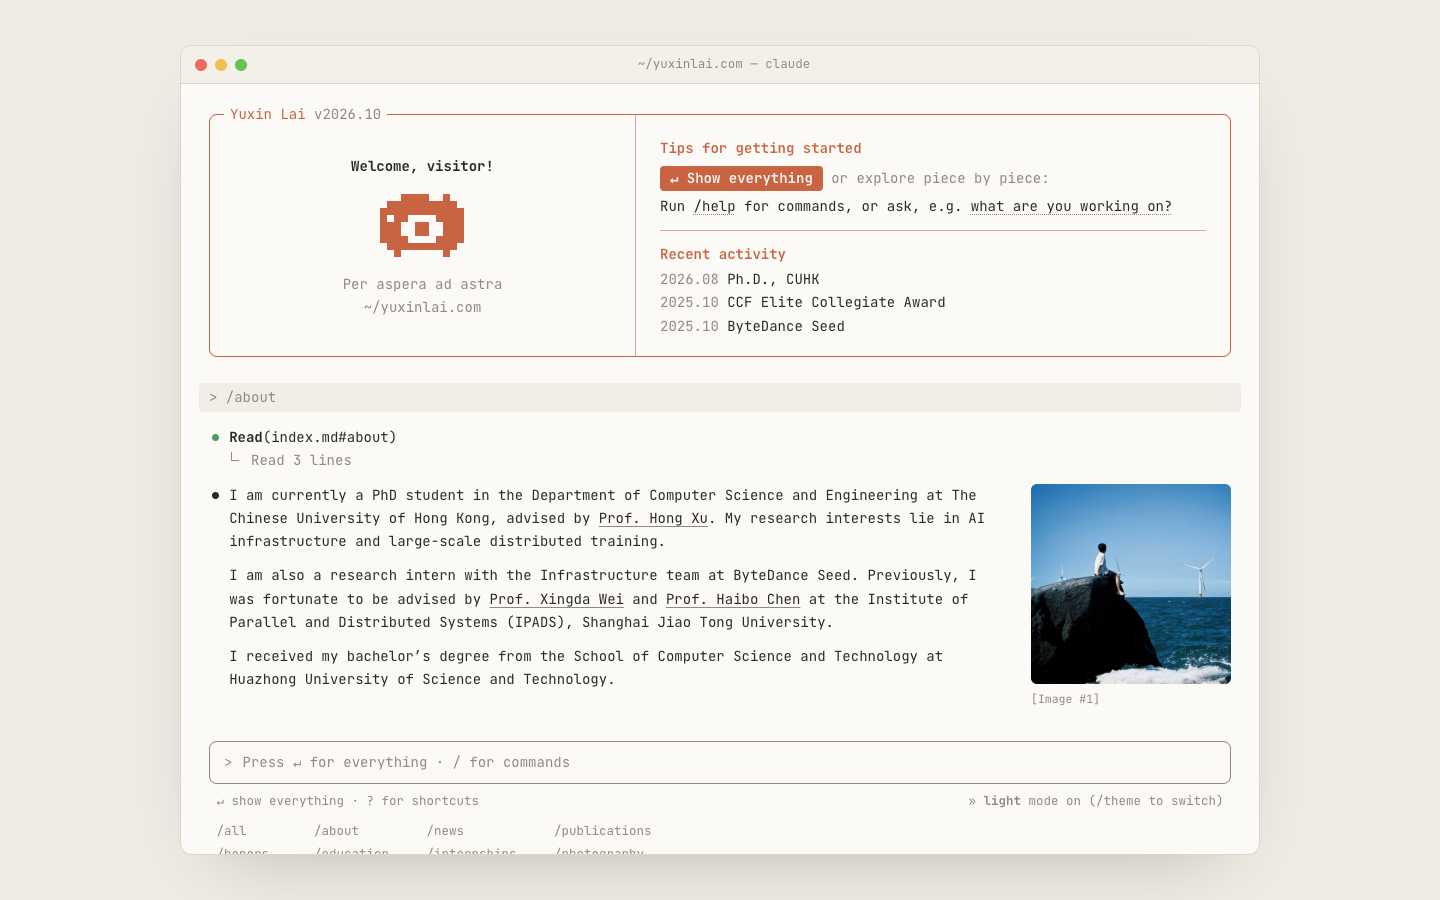
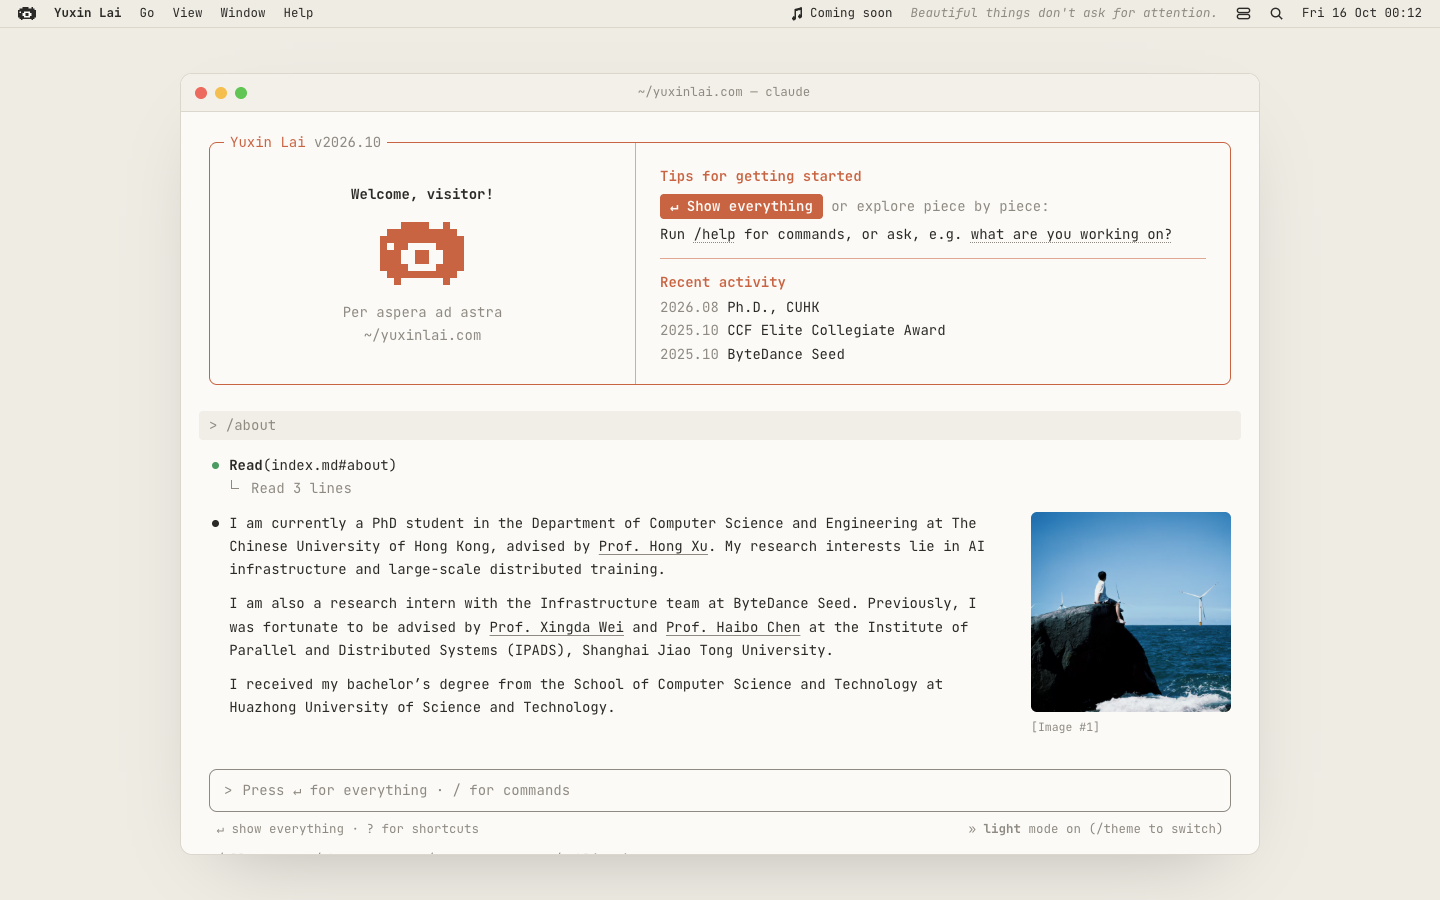
Add a macOS-style menu bar: menus, control center, search, clock, status and a music placeholder

diff --git a/_layouts/default.html b/_layouts/default.html
@@ -16,8 +16,24 @@
 </head>
 <body>
 {% assign host = site.url | remove: 'https://' | remove: 'http://' %}{% assign sections = content | split: '<h2' %}{% assign recent = page.milestones.size | minus: 3 | at_least: 0 %}{% assign gallery = page.gallery.title | slugify %}{% capture mascot %}<svg class="mascot" width="84" height="63" viewBox="0 0 12 9" shape-rendering="crispEdges" aria-hidden="true"><path d="M3 0h4v1H3zM9 0h1v1H9zM1 1h10v1H1zM0 2h12v5H0zM1 7h10v1H1zM2 8h1v1H2zM9 8h1v1H9z"/><path class="hole" d="M1 3h1v1H1zM4 3h4v1H4zM3 4h6v2H3zM4 6h4v1H4z"/><rect class="iris" x="5" y="4" width="2" height="2"/></svg>{% endcapture %}
+<nav class="mb">
+  <div class="m"><button class="logo" aria-label="Site menu">{{ mascot }}</button><div class="dd"><button data-act="about">About This Site</button><button data-run="/all">Show Everything<span>↵</span></button><hr><button data-act="min">Sleep</button><button data-act="restart">Restart</button><button data-act="close">Shut Down</button></div></div>
+  <b class="app">{{ page.title }}</b>
+  <div class="m am"><button>Go</button><div class="dd" id="go"></div></div>
+  <div class="m am"><button>View</button><div class="dd"><button data-act="theme">Dark Mode<span>/theme</span></button><button data-act="full">Full Screen</button><button data-act="keys">Shortcuts<span>?</span></button></div></div>
+  <div class="m am"><button>Window</button><div class="dd"><button data-act="min">Minimize</button><button data-act="full">Zoom</button><hr><button data-act="close">Close Window</button></div></div>
+  <div class="m am"><button>Help</button><div class="dd"><button data-run="/help">Commands<span>/help</span></button><button data-run="/contact">Contact<span>/contact</span></button></div></div>
+  <i class="sp"></i>
+  <div class="m"><button class="np"><svg viewBox="0 0 16 16"><path d="M6 3.2 14 1v10a2.2 2.2 0 1 1-1.6-2.1V4.1L7.6 5.4v7.8A2.2 2.2 0 1 1 6 11.1z"/></svg><span>Coming soon</span></button><div class="dd panel music"><div class="cover">{{ mascot }}</div><p><b>Coming Soon</b><br><span>A playlist is on its way</span></p><div class="ctl"><svg viewBox="0 0 16 16"><path d="M3 3h2v10H3zM14 3v10L6 8z"/></svg><svg viewBox="0 0 16 16"><path d="M4 2v12l10-6z"/></svg><svg viewBox="0 0 16 16"><path d="M11 3h2v10h-2zM2 3v10l8-5z"/></svg></div></div></div>
+  <span class="quote">{{ page.status }}</span>
+  <div class="m"><button aria-label="Control Center"><svg class="ln" viewBox="0 0 16 16"><rect x="1.5" y="2.5" width="13" height="4.5" rx="2.25"/><rect x="1.5" y="9" width="13" height="4.5" rx="2.25"/></svg></button><div class="dd panel cc"><button data-act="theme">Dark Mode</button><button data-act="full">Full Screen</button><button data-act="keys">Shortcuts</button></div></div>
+  <button data-act="spot" aria-label="Search" title="Search (⌘K)"><svg class="ln" viewBox="0 0 16 16"><circle cx="7" cy="7" r="4.5"/><path d="m10.5 10.5 3.5 3.5"/></svg></button>
+  <div class="m"><button id="clock"></button><div class="dd panel nc"><p class="tz"><span id="city"></span><b id="big"></b><span id="date"></span><span id="yours"></span></p><div id="news"></div></div></div>
+</nav>
+<dialog id="spot"><form><input placeholder="Search commands and content" aria-label="Search" autocomplete="off"><div class="hits"></div></form></dialog>
+<dialog id="about"><form method="dialog">{{ mascot }}<b>{{ page.title }}</b><p class="dim">Version {{ site.time | date: '%Y.%-m' }}</p><p>Built with Jekyll, hosted on GitHub Pages.<br>Updated {{ site.time | date: '%-d %b %Y' }}.</p><button>OK</button></form></dialog>
 <div class="win">
-  <div class="bar"><button id="close" aria-label="Close">×</button><button id="min" aria-label="Minimize">−</button><button id="max" aria-label="Full screen">+</button><span>~/{{ host }} — claude</span></div>
+  <div class="bar"><button data-act="close" aria-label="Close">×</button><button data-act="min" aria-label="Minimize">−</button><button data-act="full" aria-label="Full screen">+</button><span>~/{{ host }} — claude</span></div>
   <div class="term">
     <div class="welcome">
       <p class="ttl">{{ page.title }} <span>v{{ site.time | date: '%Y.%-m' }}</span></p>
@@ -49,14 +65,14 @@
     </div>
     <form class="input" id="prompt"><span class="dim">&gt;</span><input id="q" autocomplete="off" autocapitalize="off" spellcheck="false" enterkeyhint="send" placeholder="Press ↵ for everything · / for commands" aria-label="Type a command or a question"></form>
     <div class="menu" id="menu" hidden></div>
-    <div class="status"><p><button data-run="/all">↵ show everything</button><button id="toggle">&nbsp;· ? for shortcuts</button></p><button id="mode" data-run="/theme">» <b>light</b> mode on <span>(/theme to switch)</span></button></div>
+    <div class="status"><p><button data-run="/all">↵ show everything</button><button id="toggle" data-act="keys">&nbsp;· ? for shortcuts</button></p><button id="mode" data-run="/theme">» <b>light</b> mode on <span>(/theme to switch)</span></button></div>
     <div class="keys" id="keys"></div>
   </div>
 </div>
 <div class="desk">{% for p in page.gallery.photos %}{% include photo.html p=p %}{% endfor %}{{ page.gallery.note | markdownify }}</div>
-<button class="dock" title="{{ page.title }}">{{ mascot }}</button>
+<button class="dock" data-act="open" title="{{ page.title }}">{{ mascot }}</button>
 <script>
-const $ = s => document.querySelector(s), root = document.documentElement, win = $('.win'), term = $('.term'), log = $('#log'), q = $('#q'), menu = $('#menu'), keys = $('#keys');
+const $ = s => document.querySelector(s), $$ = s => document.querySelectorAll(s), root = document.documentElement, win = $('.win'), term = $('.term'), log = $('#log'), q = $('#q'), menu = $('#menu'), keys = $('#keys');
 const lib = [...document.querySelectorAll('#lib section')];
 const cmds = [['all', 'Show everything at once'], ...lib.map(s => [s.dataset.cmd, s.dataset.desc]), ['help', 'List everything I can show you'], ['theme', 'Switch between light and dark'], ['clear', 'Clear the conversation']];
 const hints = [['publications', /paper|publication|kunserve|eurosys/], ['{{ gallery }}', /photo|camera|gallery|picture/], ['honors', /award|honou?r|prize|scholarship/], ['education', /school|stud|degree|universit|educat|phd|bachelor/], ['internships', /intern|job|seed|ipads|industry/], ['news', /news|recent|latest|update/], ['contact', /contact|e-?mail|reach|github|scholar|\bcv\b|resume/], ['all', /everything|\ball\b|full|whole/], ['help', /help|what can/], ['about', /who|yourself|research|interest|working on|about/]];
@@ -77,7 +93,7 @@ const reply = (name, t) => {
   const help = `<button data-run="/help">/help</button>`;
   if (!name) return [el('say', t.startsWith('/') ? `<p>Unknown command: ${esc(t)}. Try ${help}.</p>` : `<p>I’m a static homepage, so that one is beyond me. Try ${help} to see what I can show you.</p>`)];
   if (name === 'help') return [el('say', `<p>Here’s what I can show you:</p><div class="cmds">${cmds.map(([c, d]) => `<button data-run="/${c}"><b>/${c}</b><span>${d}</span></button>`).join('')}</div><p class="dim">You can also ask in plain words, like “what are you working on?”</p>`)];
-  if (name === 'theme') return setTheme(root.dataset.theme === 'dark' ? 'light' : 'dark'), [el('res', `Theme set to ${root.dataset.theme}`)];
+  if (name === 'theme') return acts.theme(), [el('res', `Theme set to ${root.dataset.theme}`)];
   if (name === 'all') {
     const all = el('say');
     lib.forEach(s => { const b = s.cloneNode(true); b.classList.remove('say'); all.append(el('sec', s.dataset.title), b); });
@@ -90,7 +106,8 @@ const reply = (name, t) => {
 };
 const run = async (raw, quiet) => {
   const t = raw.trim();
-  q.value = ''; suggest();
+  if (win.classList.contains('closed')) log.replaceChildren();
+  show(); q.value = ''; suggest();
   if (!t || busy) return;
   hist.push(t); hi = hist.length; busy = true;
   const name = resolve(t);
@@ -115,7 +132,6 @@ function suggest() {
 }
 keys.innerHTML = cmds.map(([c]) => `<button data-run="/${c}">/${c}</button>`).join('') + '<p>↑↓ history · tab to complete · ? to toggle this list</p>';
 paint();
-$('#toggle').onclick = () => keys.hidden = !keys.hidden;
 $('#prompt').onsubmit = e => { e.preventDefault(); run(menu.hidden ? q.value.trim() || '/all' : menu.querySelector('.on').dataset.run); };
 q.oninput = () => { sel = 0; suggest(); };
 q.onkeydown = e => {
@@ -128,16 +144,42 @@ q.onkeydown = e => {
   else return;
   e.preventDefault();
 };
+const spot = $('#spot'), sq = $('#spot input'), hits = $('#spot .hits'), show = () => win.classList.remove('closed', 'min');
+const acts = {
+  close: () => win.classList.add('closed'), min: () => win.classList.add('min'), full: () => win.classList.toggle('full'),
+  open: () => win.classList.contains('closed') ? acts.restart() : show(),
+  restart: () => { show(); log.replaceChildren(); q.value = ''; intro(); },
+  theme: () => setTheme(root.dataset.theme === 'dark' ? 'light' : 'dark'),
+  keys: () => keys.hidden = !keys.hidden,
+  about: () => $('#about').showModal(),
+  spot: () => { sq.value = ''; sq.oninput(); spot.showModal(); },
+};
+const openMenu = m => $$('.m').forEach(x => x.classList.toggle('open', x === m));
 document.addEventListener('click', e => {
-  const b = e.target.closest('[data-run]');
+  const t = e.target, top = t.closest('.m > button'), m = t.closest('.m'), a = t.closest('[data-act]'), b = t.closest('[data-run]');
+  openMenu(t.closest('.panel') || top && !m.classList.contains('open') ? m : null);
+  if (top) return;
+  if (a) return acts[a.dataset.act]();
   if (b) return e.preventDefault(), run(b.dataset.run);
-  if (fine && e.target.closest('.term') && !e.target.closest('a,button,input') && !getSelection().toString()) q.focus({preventScroll: true});
+  if (fine && t.closest('.term') && !t.closest('a,button,input') && !getSelection().toString()) q.focus({preventScroll: true});
 });
-addEventListener('wheel', e => e.target.closest('.win') || term.scrollBy(e.deltaX, e.deltaY), {passive: true});
-$('#close').onclick = () => win.classList.add('closed');
-$('#min').onclick = () => win.classList.add('min');
-$('#max').onclick = () => win.classList.toggle('full');
-$('.dock').onclick = () => { if (win.classList.contains('closed')) log.replaceChildren(), q.value = '', intro(); win.classList.remove('closed', 'min'); };
+$('.mb').onmouseover = e => { const m = e.target.closest('.m'); if (m && $('.m.open')) openMenu(m); };
+addEventListener('keydown', e => (e.metaKey || e.ctrlKey) && e.key === 'k' ? (e.preventDefault(), acts.spot()) : e.key === 'Escape' && openMenu());
+addEventListener('wheel', e => e.target.closest('.win,.mb,dialog') || term.scrollBy(e.deltaX, e.deltaY), {passive: true});
+$$('dialog').forEach(d => d.addEventListener('click', e => e.target === d && d.close()));
+sq.oninput = () => { const v = sq.value.toLowerCase().trim(); hits.innerHTML = cmds.filter(([c, d]) => `${c} ${d} ${lib.find(s => s.dataset.cmd === c)?.textContent ?? ''}`.toLowerCase().includes(v)).slice(0, 8).map(([c, d]) => `<button value="/${c}">/${c}<span>${d}</span></button>`).join(''); };
+$('#spot form').onsubmit = e => { e.preventDefault(); spot.close(); run(e.submitter?.value ?? sq.value); };
+$('#go').innerHTML = '<button data-run="/all">Everything<span>↵</span></button><hr>' + lib.map(s => `<button data-run="/${s.dataset.cmd}">${s.dataset.title}</button>`).join('');
+$('#news').innerHTML = [...lib.find(s => s.dataset.cmd === 'news')?.querySelectorAll('li') ?? []].map(li => `<p><span>${li.firstChild.textContent}</span>${li.innerHTML.replace(li.firstChild.outerHTML, '')}</p>`).join('');
+const tz = '{{ page.timezone }}' || undefined, fmt = o => new Intl.DateTimeFormat('en-GB', {timeZone: tz, ...o}).format(new Date()), hm = {hour: '2-digit', minute: '2-digit'};
+const tick = () => {
+  $('#clock').textContent = fmt({weekday: 'short', day: 'numeric', month: 'short', ...hm}).replace(',', '');
+  $('#big').textContent = fmt(hm); $('#date').textContent = fmt({weekday: 'long', day: 'numeric', month: 'long'});
+  const mine = new Intl.DateTimeFormat('en-GB', hm).format(new Date());
+  $('#yours').textContent = mine === fmt(hm) ? '' : `Your time ${mine}`;
+};
+$('#city').textContent = (tz ?? 'Local time').split('/').pop().replace(/_/g, ' ');
+tick(); setInterval(tick, 5000);
 const intro = async () => {
   const first = '/' + lib[0].dataset.cmd;
   await sleep(500);

diff --git a/assets/css/main.css b/assets/css/main.css
@@ -1,6 +1,6 @@
 *,*::before,*::after{box-sizing:border-box}
 [hidden]{display:none!important}
-:root{--page:#efece4;--win:#fbfaf7;--bar:#f3f0e9;--text:#2b2a27;--dim:#8e8a81;--line:#dcd7cc;--you:#f1eee7;--accent:#c96442;--green:#4b9b62;color-scheme:light}
+:root{--mb:28px;--page:#efece4;--win:#fbfaf7;--bar:#f3f0e9;--text:#2b2a27;--dim:#8e8a81;--line:#dcd7cc;--you:#f1eee7;--accent:#c96442;--green:#4b9b62;color-scheme:light}
 [data-theme=dark]{--page:#151413;--win:#232220;--bar:#2a2926;--text:#e9e6df;--dim:#8f8b83;--line:#3b3935;--you:#2d2c29;--accent:#e08563;--green:#6dbb83;color-scheme:dark}
 body{margin:0;background:var(--page);color:var(--text);font:400 14px/1.65 "JetBrains Mono Variable",ui-monospace,Menlo,monospace;-webkit-font-smoothing:antialiased;transition:background .3s}
 a{color:inherit;text-decoration:underline 1px var(--dim);text-underline-offset:3px}
@@ -10,15 +10,15 @@ p{margin:0}
 strong{font-weight:700}
 .dim{color:var(--dim)}
 
-.win{--gap:clamp(16px,5vh,48px);position:relative;z-index:1;display:flex;flex-direction:column;width:min(1080px,100% - 2*var(--gap));height:calc(100dvh - 2*var(--gap));margin:var(--gap) auto;border:1px solid var(--line);border-radius:12px;background:var(--win);box-shadow:0 30px 80px -40px rgb(0 0 0 / .28);overflow:hidden;transform-origin:50% 100%;transition:.45s}
+.win{--gap:clamp(16px,5vh,48px);position:relative;z-index:1;display:flex;flex-direction:column;width:min(1080px,100% - 2*var(--gap));height:calc(100dvh - var(--mb) - 2*var(--gap));margin:calc(var(--mb) + var(--gap)) auto var(--gap);border:1px solid var(--line);border-radius:12px;background:var(--win);box-shadow:0 30px 80px -40px rgb(0 0 0 / .28);overflow:hidden;transform-origin:50% 100%;transition:.45s}
 .win:is(.min,.closed){opacity:0;visibility:hidden}
 .min{transform:scale(.05)}
 .closed{transform:scale(.95)}
-.full{--gap:0px;width:100%;border:0;border-radius:0}
+.full{--gap:0px;--mb:0px;z-index:3;width:100%;border:0;border-radius:0}
 .dock{position:fixed;bottom:14px;left:50%;display:grid;place-items:center;width:58px;height:58px;border:1px solid var(--line);border-radius:14px;background:var(--win);box-shadow:0 12px 30px -12px rgb(0 0 0 / .35);translate:-50% 0;transition:translate .45s,opacity .45s,visibility .45s}
 .win:not(.min,.closed)~.dock{translate:-50% 150%;opacity:0;visibility:hidden}
 .dock .mascot{width:36px;height:27px;margin:0}
-.desk{position:fixed;inset:0;display:flex;flex-wrap:wrap;align-content:center;justify-content:center;gap:28px;padding:48px 48px 110px;transition:.45s}
+.desk{position:fixed;inset:0;display:flex;flex-wrap:wrap;align-content:center;justify-content:center;gap:28px;padding:calc(var(--mb) + 48px) 48px 110px;transition:.45s}
 .win:not(.min,.closed)~.desk{opacity:0;visibility:hidden;scale:.97}
 .desk figure{width:min(250px,18vw);padding:10px 10px 12px;border-radius:6px;background:var(--win);box-shadow:0 18px 40px -20px rgb(0 0 0 / .45);rotate:-3deg;transition:.3s}
 .desk figure:nth-child(even){rotate:2.5deg;translate:0 14px}
@@ -26,9 +26,53 @@ strong{font-weight:700}
 .desk p{flex-basis:100%;color:var(--dim);text-align:center}
 .bar{display:flex;align-items:center;gap:8px;height:38px;padding:0 14px;border-bottom:1px solid var(--line);background:var(--bar);color:var(--dim);font-size:12.5px}
 .bar button{width:12px;height:12px;border-radius:50%;background:#ec6a5e;color:transparent;font-size:10px;font-weight:700;line-height:12px;text-align:center}
-#min{background:#f4bf4f}
-#max{background:#61c554}
+.bar button:nth-child(2){background:#f4bf4f}
+.bar button:nth-child(3){background:#61c554}
 .bar:hover button{color:rgb(0 0 0 / .5)}
+
+.mb{position:fixed;inset:0 0 auto;z-index:2;display:flex;align-items:center;gap:2px;height:var(--mb);padding:0 10px;border-bottom:1px solid var(--line);background:color-mix(in srgb,var(--page) 80%,transparent);backdrop-filter:blur(14px);font-size:12.5px;line-height:1}
+.mb>button,.m>button{display:flex;align-items:center;gap:6px;height:22px;padding:0 8px;border-radius:5px;white-space:nowrap}
+.m.open>button{background:color-mix(in srgb,var(--text) 12%,transparent)}
+.mb svg{width:15px;height:15px;fill:currentColor}
+.mb .ln{fill:none;stroke:currentColor;stroke-width:1.5}
+.logo .mascot{width:18px;height:auto;margin:0}
+.app{padding:0 8px}
+.sp{flex:1}
+.quote{padding:0 8px;overflow:hidden;color:var(--dim);font-style:italic;white-space:nowrap;text-overflow:ellipsis}
+.m{position:relative}
+.m:not(.open)>.dd{display:none}
+.dd{position:absolute;top:calc(100% + 5px);left:0;min-width:220px;padding:5px;border:1px solid var(--line);border-radius:10px;background:var(--win);box-shadow:0 20px 50px -18px rgb(0 0 0 / .35);line-height:1.5}
+.sp~.m .dd{left:auto;right:0}
+.dd:not(.panel)>button{display:flex;justify-content:space-between;gap:3ch;width:100%;padding:3px 10px;border-radius:5px}
+.dd:not(.panel)>button:hover{background:var(--accent);color:var(--win)}
+.dd span{color:var(--dim)}
+.dd button:hover span{color:inherit}
+.dd hr{margin:5px 10px;border:0;border-top:1px solid var(--line)}
+.music{display:grid;grid-template-columns:56px 1fr;gap:12px;align-items:center;width:290px;padding:14px}
+.cover{display:grid;place-items:center;height:56px;border-radius:6px;background:var(--you)}
+.cover .mascot{width:30px;height:auto;margin:0}
+.ctl{display:flex;grid-column:1/-1;justify-content:center;gap:34px;opacity:.35}
+.cc{display:grid;grid-template-columns:repeat(3,1fr);gap:8px;width:380px;padding:10px}
+.cc button{padding:10px 12px;border-radius:8px;background:var(--you)}
+.cc button::after{content:var(--s,"Off");display:block;font-size:11px;opacity:.7}
+:is([data-theme=dark] .cc [data-act=theme],html:has(.full) .cc [data-act=full],html:has(#keys:not([hidden])) .cc [data-act=keys]){--s:"On";background:var(--accent);color:var(--win)}
+.nc{width:300px;padding:8px}
+.nc p{margin-top:8px;padding:10px 14px;border-radius:8px;background:var(--you)}
+.nc .tz{margin:0}
+.nc p span{display:block;color:var(--dim);font-size:11px}
+#big{display:block;font-size:34px;font-weight:300;line-height:1.3}
+dialog{padding:0;border:1px solid var(--line);border-radius:12px;background:var(--win);color:var(--text);box-shadow:0 30px 80px -30px rgb(0 0 0 / .45)}
+dialog::backdrop{background:rgb(0 0 0 / .12)}
+#spot{width:min(560px,92vw);margin:16vh auto auto}
+#spot input{width:100%;padding:14px 18px;border:0;outline:0;background:none;color:inherit;font:inherit;font-size:16px}
+.hits:not(:empty){padding:6px;border-top:1px solid var(--line)}
+.hits button{display:grid;grid-template-columns:16ch minmax(0,1fr);gap:2ch;width:100%;padding:5px 12px;border-radius:6px}
+.hits span{overflow:hidden;color:var(--dim);white-space:nowrap;text-overflow:ellipsis}
+.hits:not(:hover) button:first-child,.hits button:hover{background:var(--you)}
+#about{width:300px;padding:28px 24px 20px;text-align:center}
+#about form{display:grid;justify-items:center;gap:6px}
+#about .mascot{margin:0 0 10px}
+#about form>button{margin-top:10px;padding:3px 24px;border-radius:6px;background:var(--accent);color:var(--win)}
 .bar span{flex:1;margin-right:52px;text-align:center}
 .term{flex:1;overflow:auto;padding:30px 28px 24px}
 
@@ -100,9 +144,12 @@ figcaption{margin-top:6px}
 .status{display:flex;justify-content:space-between;gap:16px;padding:7px 1ch 0;color:var(--dim);font-size:12.5px}
 .keys{display:grid;grid-template-columns:repeat(4,max-content);gap:2px 5ch;padding:10px 1ch 0;color:var(--dim);font-size:12.5px}
 .keys p{grid-column:1/-1;margin-top:6px}
-html:not(.js) :is(.input,.status,.keys),.js #lib,.menu:not([hidden])~*{display:none}
+html:not(.js) :is(.input,.status,.keys,.mb),.js #lib,.menu:not([hidden])~*{display:none}
 
+@media (max-width:1100px){.quote{display:none}}
 @media (max-width:680px){
+  .am,.app,.np span{display:none}
+  .mb .m .dd{position:fixed;inset:calc(var(--mb) + 4px) 8px auto;width:auto}
   body{font-size:12.5px}
   .win{--gap:0px;border:0;border-radius:0}
   .term{padding:22px 14px 20px}
@@ -113,7 +160,7 @@ html:not(.js) :is(.input,.status,.keys),.js #lib,.menu:not([hidden])~*{display:n
   .me{width:40%;margin-left:2ch}
   .links a{grid-template-columns:15ch minmax(0,1fr)}
   .photos{grid-template-columns:repeat(2,1fr)}
-  .desk{gap:18px;padding:24px 16px 100px}
+  .desk{gap:18px;padding:calc(var(--mb) + 24px) 16px 100px}
   .desk figure{width:40vw}
   .menu button{grid-template-columns:15ch minmax(0,1fr)}
   .keys{grid-template-columns:repeat(2,max-content)}

diff --git a/README.md b/README.md
@@ -13,6 +13,8 @@
 | 字段 | 作用 |
 | --- | --- |
 | `title`、`motto` | 欢迎框里的名字和格言，也用作网页标题和描述 |
+| `status` | 顶栏中间的一句话（窗口较窄时隐藏） |
+| `timezone` | 顶栏时钟用的时区，例如 `Asia/Hong_Kong`；点开时钟能看到 News 各条，访客时区不同时还会显示访客的当地时间 |
 | `avatar` | 个人照片，显示在第一节的回答旁边；删掉这一行就不显示 |
 | `links` | `/contact` 列出的链接，按书写顺序显示 |
 | `gallery` | 摄影网站：`title`、`url` 是名称和地址（`/contact` 末尾也会列出）；`photos` 是 `/photography` 展示的照片（`photo`、`alt`、`caption`，可选的裁切位置 `focus`），都链接到 `url`；`note` 是照片下面的一段 Markdown |
@@ -26,7 +28,7 @@ YAML 里的日期要加引号（`"2025.10"`），否则会被读成数字 2025.1
 - 以斜体日期开头的列表项，日期会排进左侧的日期栏，例如 `- *2025.08* KunServe is accepted by EuroSys 2026!`。
 - 论文写成 `### [标题](链接)`，紧跟的一段（作者、会议）显示为灰色小字。
 
-除了各节，页面还有几条固定命令：`/all`（或在空输入框按回车）展示全部内容，`/help` 列出所有命令，`/theme` 切换深浅色（默认跟随系统，切换后会记住选择），`/clear` 清空对话。窗口左上角的红黄绿按钮分别是关闭（点 Dock 图标重新打开一个新会话）、最小化（点 Dock 图标原样恢复）和铺满整个网页。访客直接用英文提问时，会按关键词匹配到对应的节，例如 “any papers?” 显示 Publications；关键词写在 `_layouts/default.html` 的 `hints` 里，新增一节后如果想让提问也能找到它，在那里加一行。
+除了各节，页面还有几条固定命令：`/all`（或在空输入框按回车）展示全部内容，`/help` 列出所有命令，`/theme` 切换深浅色（默认跟随系统，切换后会记住选择），`/clear` 清空对话。窗口左上角的红黄绿按钮分别是关闭（点 Dock 图标重新打开一个新会话）、最小化（点 Dock 图标原样恢复）和铺满整个网页。页面顶部是仿 macOS 的顶栏：左边的菜单能跳到各节、切换深浅色和操作窗口，右边有控制中心、搜索（⌘K）和时钟；音乐播放器目前只是占位。访客直接用英文提问时，会按关键词匹配到对应的节，例如 “any papers?” 显示 Publications；关键词写在 `_layouts/default.html` 的 `hints` 里，新增一节后如果想让提问也能找到它，在那里加一行。
 
 ## 本地预览
 

diff --git a/index.md b/index.md
@@ -5,6 +5,8 @@ permalink: /
 redirect_from: [/about/, /about.html]
 title: Yuxin Lai
 motto: Per aspera ad astra
+status: Beautiful things don't ask for attention.   # shown in the menu bar
+timezone: Asia/Hong_Kong   # menu-bar clock; the visitor's own time is shown beside it when different
 avatar: /images/avatar_0.jpg   # shown beside the first section
 links:          # listed by /contact, in this order
   Email: mailto:yuxin.lai@outlook.com
